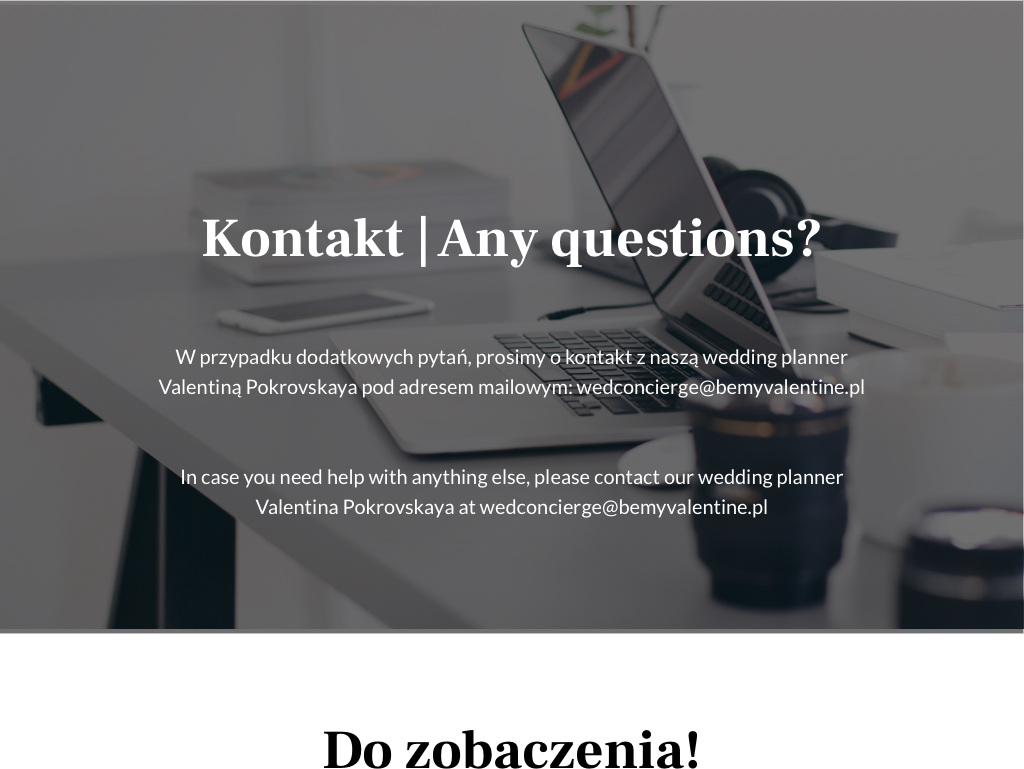
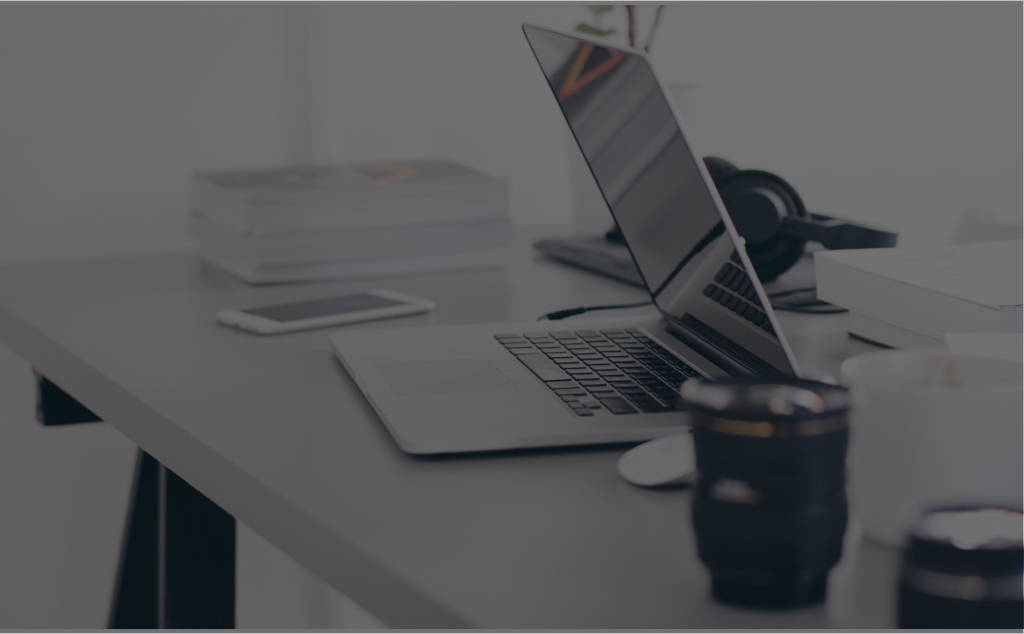
compressing images + adding copy + hiding email address

diff --git a/index.html b/index.html
@@ -6,6 +6,11 @@
     <title>Sylvia &amp; Marcin</title>
     <link rel="stylesheet" href="css/style.css">
     <link href="https://fonts.googleapis.com/css?family=Frank+Ruhl+Libre|Lato" rel="stylesheet">
+    <script>
+        window._address = '<'+'a'+' '+'h'+'re'+'f'+'='+"'"+'ma'+'i'+'lt'+'o'+':'+'w'+'e'+'d'+'c'+'o'+'n'+'c'+'i'+'e'+'r'+'g'+
+          'e'+'@'+'b'+'e'+'m'+'y'+'v'+'a'+'l'+'e'+'n'+'t'+'i'+'n'+'e'+'.'+'p'+'l?'+'su'+'b'+'jec'+'t=Zapytanie: Sylvia i Marcin 13.10'+
+          "'"+'>'+'w'+'e'+'d'+'c'+'o'+'n'+'c'+'i'+'e'+'r'+'g'+'e'+'@'+'b'+'e'+'m'+'y'+'v'+'a'+'l'+'e'+'n'+'t'+'i'+'n'+'e'+'.'+'p'+'l'+'<'+'/'+'a'+'>';
+    </script>
 </head>
 <body>
     <div class="container">
@@ -97,7 +102,7 @@
                 </article>
             </section>
             <section class="img info offset-top" id="podroz">
-                <h2>Podróż <span class="non-mobile">|</span> Useful info</h2>
+                <h2>Podróż | Useful info</h2>
             </section>
             <section class="offset">
                 <h3>Transport <span class="non-mobile">|</span> <span class="secondary-text">From the airport</span></h3>
@@ -153,7 +158,20 @@
                 <p><a class="link" href="http://www.pizzeriachili.pl/">Domowa pizza</a></p>
             </section>
             <section class="img contact offset-top" id="kontakt">
-                <h2></h2>
+                <div class="non-mobile">
+                    <h2>Kontakt | Any questions?</h2>
+                    <p>W przypadku dodatkowych pytań, prosimy o kontakt z naszą planerką</p>
+                    <p>Valentiną Pokrovskaya pod adresem mailowym: <script type="text/javascript">document.write(window._address);</script></p>
+                    <br />
+                    <p>In case you need help with anything else, pleasecontact our wedding planner</p>
+                    <p>Valentina Pokrovskaya at <script type="text/javascript">document.write(window._address);</script></p>
+                </div>
+
+                <div class="mobile">
+                    <h2>Kontakt | Any questions?</h2>
+                    <p>Piszcie do naszej plannerki Valentiny: wedconcierge@bemyvalentine.pl</p>
+                    <p>Please contact our planner Valentina at wedconcierge@bemyvalentine.pl</p>
+                </div>
             </section>
             <section class="offset-top offset-bottom center">
                 <p class="large">Do zobaczenia!</p>

diff --git a/css/style.css b/css/style.css
@@ -80,6 +80,10 @@ section.offset-bottom {
   margin-bottom: 200px;
 }
 
+section.img p {
+  color: #fff;
+}
+
 ol, ul {
   list-style: none
 }
@@ -125,6 +129,10 @@ aside time {
   line-height: 1.2;
 }
 
+.mobile {
+  display: none;
+}
+
 .center {
   align-items: center;
   justify-content: space-evenly;
@@ -161,11 +169,11 @@ aside time {
   height: 50vw;
   justify-content: center;
   align-items: center;
+  text-align: center;
 }
 
 .img h2 {
   color: #fff;
-  text-shadow: 0 0 8px black;
   font-size: 4rem;
 }
 
@@ -183,6 +191,10 @@ aside time {
 
 .contact {
   background: url("../images/kontakt.jpg") center/cover no-repeat;
+}
+
+.contact a {
+  color: #fff;
 }
 
 .secondary-text {
@@ -253,6 +265,10 @@ p a {
     font-size: 50%;
   }
 
+  .mobile {
+    display: flex;
+  }
+
   .non-mobile {
     display: none;
   }
@@ -303,5 +319,11 @@ p a {
   #map {
     width: auto;
     height: 400px;
+  }
+}
+
+@media only screen and (max-width: 374px) {
+  section.contact h2 {
+    font-size: 3rem;
   }
 }
